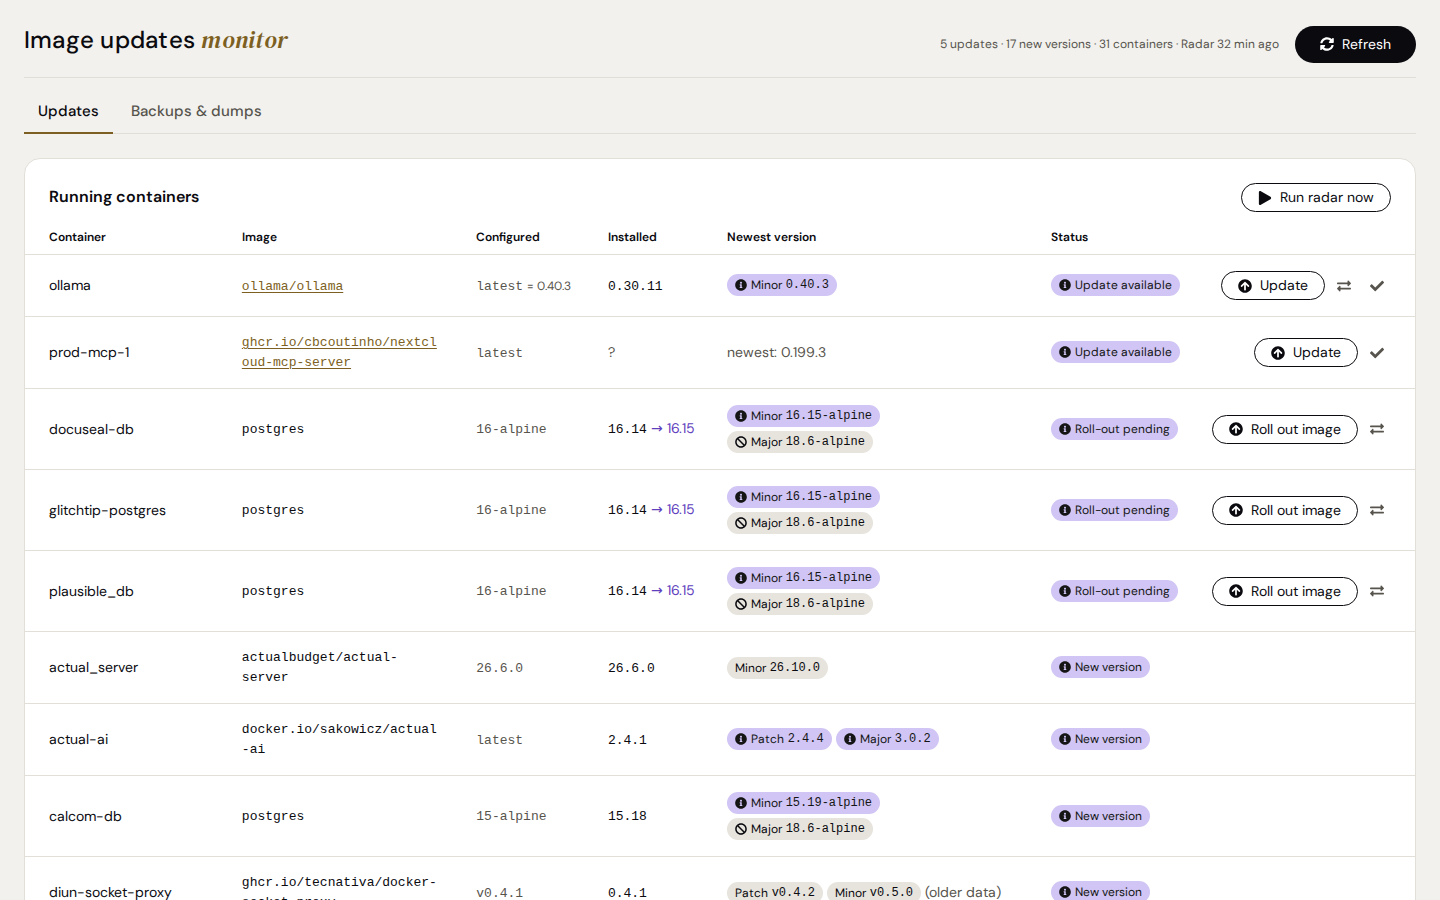
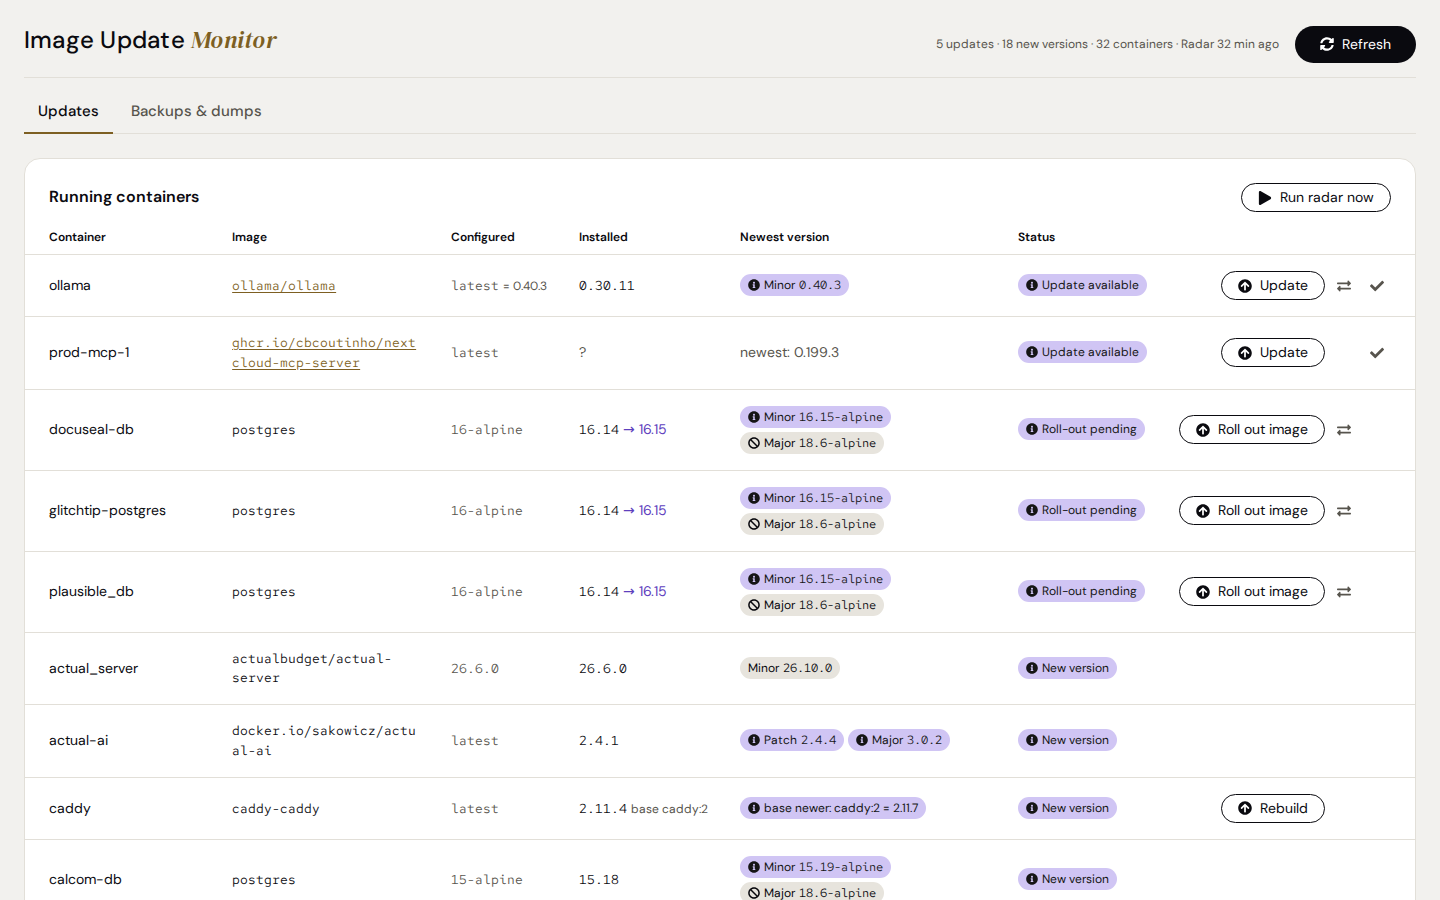
Refresh the README screenshots and show a rebuild and a database major (#99)
The README screenshots dated from 0.13.0 and did not show the newer
buttons. They now come from the CI artifact `screenshots` of ef6759e,
and two flows that had no screenshot get one: the rebuild of an image
built on the server and the database major in *Change version*.
Documentation and preview only: no change to the add-on, its tests, the
version or `CHANGELOG.md`.

## Preview (`tools/preview`)

- **An image built on the server:** the preview adds a container `caddy`
(image `caddy-caddy`, built on `caddy:2-builder` and `caddy:2`) whose
radar record is `unlisted` with `built` and `base`, both bases newer
than the build. Its row shows `2.11.4 base caddy:2`, `base newer:
caddy:2 = 2.11.7` and **Rebuild**. The container and its record are
appended in `build.py`; `inventory3.jsonl` and `versions2.json`, which
the jsdom tests read, stay as they are.
- **Stubbed dry runs** in `cockpit-stub.js`, as for `retag`:
- `rebuild <container> --dry-run` answers the plan from `preview.json`
(`not-built` for other containers);
- `dbmajor <container> <tag> --dry-run` answers the tag change of `retag
… --dry-run` plus `major` from `preview.json`; PostgreSQL 18 is refused
with `major-pgdata`, as the helper refuses it without `PGDATA`.
- **`preview.json`:** the new keys `built`, `rebuild` and `majors`, and
a `retag` entry for `glitchtip-postgres` (16-alpine). The two tests that
read this file use only `backups` and `plans`.
[…]

diff --git a/tools/preview/cockpit-stub.js b/tools/preview/cockpit-stub.js
@@ -48,6 +48,18 @@
                           git: null, fingerprint: "f".repeat(64) } };
     }
 
+    // `dbmajor <container> <tag> --dry-run`: the tag change of retagPlan plus
+    // "major" from the fixture; a target major the fixture lists as refused
+    // (PostgreSQL 18 without PGDATA) is refused as the helper does it.
+    function majorPlan(name, tag) {
+        const plan = retagPlan(name, tag);
+        const fx = FX.majors[name];
+        const to = parseInt(plan.target_version, 10);
+        const no = !fx ? { reason: "major-not-supported", detail: plan.image || name } : (fx.refused || {})[to];
+        return { ...plan, major: no ? { possible: false, ...no }
+                                    : { ...fx.major, to_major: to, fingerprint: "e".repeat(64) } };
+    }
+
     window.cockpit = {
         language: "en",
         hidden: false,
@@ -76,6 +88,13 @@
                 return fakeProcess(JSON.stringify(retagPlan(argv[2], argv[3])), []);
             }
             if (tool === "diun-update.py" && verb === "retag") return fakeProcess("", FX.retagLog);
+            if (tool === "diun-update.py" && verb === "dbmajor" && argv[4] === "--dry-run") {
+                return fakeProcess(JSON.stringify(majorPlan(argv[2], argv[3])), []);
+            }
+            if (tool === "diun-update.py" && verb === "rebuild" && argv[3] === "--dry-run") {
+                return fakeProcess(JSON.stringify(FX.rebuild[argv[2]] ||
+                    { container: argv[2], updatable: false, reason: "not-built" }), []);
+            }
             if (tool === "diun-update.py" && verb.indexOf("delete-") === 0) return fakeProcess("", ["Deleted.\n"]);
             if (tool === "diun-update.py" && verb === "radar") return fakeProcess("", ["Version radar running …\n", "Version radar finished.\n"]);
             if (tool === "diun-update.py" && verb === "cleanup") {

diff --git a/tools/preview/build.py b/tools/preview/build.py
@@ -26,22 +26,31 @@ if (_l && _l !== "en") cockpit.locale({"": {"language": _l, "language-direction"
 
 
 def main():
-    preview = json.load(open(os.path.join(FIX, "preview.json")))
+    preview = json.load(open(os.path.join(FIX, "preview.json"), encoding="utf-8"))
+    # An image built on this server with a newer base (Rebuild in its row):
+    # only in the preview, the tests keep the fixtures as they are.
+    built = preview["built"]
+    radar = json.load(open(os.path.join(FIX, "versions2.json"), encoding="utf-8"))
+    radar["images"].extend(built["radar"])
+    inventory = open(os.path.join(FIX, "inventory3.jsonl"), encoding="utf-8").read()
+    inventory += "".join(json.dumps(c) + "\n" for c in built["inventory"])
     fixtures = {
         "files": {
             "/var/lib/diun/events.jsonl": open(os.path.join(FIX, "events.jsonl")).read(),
-            "/var/lib/diun-radar/versions.json": json.load(open(os.path.join(FIX, "versions2.json"))),
+            "/var/lib/diun-radar/versions.json": radar,
             "/var/lib/diun-radar/releases.json": json.load(open(os.path.join(FIX, "releases.json"))),
             "/var/lib/diun/dismissed.json": None,
             "/etc/hostname": "docker-host",
         },
-        "inventory": open(os.path.join(FIX, "inventory3.jsonl")).read(),
+        "inventory": inventory,
         "deps": {"root": True, "docker": {"state": "ok", "compose": True},
                  "diun": {"state": "running", "events": True}, "skopeo": {"state": "ok"},
                  "radar": {"state": "active", "running": False},
                  "cleanup": {"state": "active", "can_install": True}},
         "plans": preview["plans"],
         "retag": preview["retag"],
+        "rebuild": preview["rebuild"],
+        "majors": preview["majors"],
         "backups": preview["backups"],
         "log": preview["log"],
         "retagLog": preview["retag_log"],

diff --git a/tools/preview/shoot.py b/tools/preview/shoot.py
@@ -54,6 +54,27 @@ def main():
         pg.wait_for_timeout(400)
         pg.screenshot(path=os.path.join(OUT, "version-dialog.png"))
 
+        # Change version to a database major: the plan of `dbmajor … --dry-run`
+        pg = page(1440, 900, "en")
+        pg.click('td.az-cell-actions button[data-retag="glitchtip-postgres"]')
+        pg.select_option("#dm-retag-select", "17-alpine")
+        pg.wait_for_selector("#dm-mj-backup")
+        pg.wait_for_timeout(300)
+        pg.screenshot(path=os.path.join(OUT, "major-dialog.png"))
+
+        # An image built on this server with a newer base: Rebuild in its row
+        # (on a phone, scrolled to it) and the plan of the rebuild
+        pg = page(1440, 900, "en")
+        pg.click('button[data-kind="rebuild"]')
+        pg.wait_for_selector("#dm-dialog-body .dm-kv")
+        pg.wait_for_timeout(300)
+        pg.screenshot(path=os.path.join(OUT, "rebuild-dialog.png"))
+        pg = page(390, 844, "en")
+        pg.evaluate("() => document.querySelector('button[data-kind=\"rebuild\"]')"
+                    ".closest('tr').scrollIntoView({ block: 'center' })")
+        pg.wait_for_timeout(200)
+        pg.screenshot(path=os.path.join(OUT, "rebuild-phone.png"))
+
         pg = page(1440, 900, "en", "dark")
         pg.screenshot(path=os.path.join(OUT, "updates-dark.png"))
         pg.click('button[data-update="ollama"]')

diff --git a/README.md b/README.md
@@ -168,6 +168,10 @@ an update, also for a service with `build:` and no `image:` line (since 0.24.1: 
 `<project>-<service>`, and the rollback checks that name). The Dockerfile itself is never changed: a
 version pinned there (`FROM caddy:2.11.4`) stays.
 
+| Rebuild in the row (phone) | The plan of a rebuild |
+|---|---|
+| ![An image built on the server with a newer base: Rebuild in its row, on a phone](docs/img/rebuild-phone.png) | ![Rebuild caddy: the base images, newer than the build, then the plan](docs/img/rebuild-dialog.png) |
+
 ```mermaid
 sequenceDiagram
     participant U as Cockpit (browser)
@@ -312,6 +316,8 @@ A newer PostgreSQL major (e.g. 16 → 17) or, since 0.25.0, MariaDB major (e.g. 
 8. starts the waiting services again.
 
 Anything that fails before the database stops leaves nothing changed. Later the history offers the rollback: it moves the old data back (what was written after the major is not in it) and keeps the new major's data. The old data stays until **Release** in the history deletes it.
+
+![Change version with a database major, PostgreSQL 16 → 17: where the data lies, what stops meanwhile, the extensions, the space and the two tick boxes](docs/img/major-dialog.png)
 
 **A run that is stopped while it moves the data** (since 0.24.1): each move is in the history before its first file moves. SIGTERM, SIGHUP and Ctrl-C wait until the move and its record are done, then the run fails with its rollback. After a hard stop (SIGKILL, a power cut) the history keeps the open move, and the rollback finishes it. The rollback starts the old database only once its data is complete again (the same entries, `PG_VERSION` of the old major, for MariaDB its `mysql_upgrade_info` when there was one); otherwise it fails and leaves everything where it is, so PostgreSQL never sets up a new, empty cluster in place of the data. Nothing is deleted when a move or its undo fails. Up to 0.24.0 a signal or a kill during the move could leave the data in the kept place without the history knowing; the rollback of 0.24.1 finds such a place by its name and puts the data back.
 
